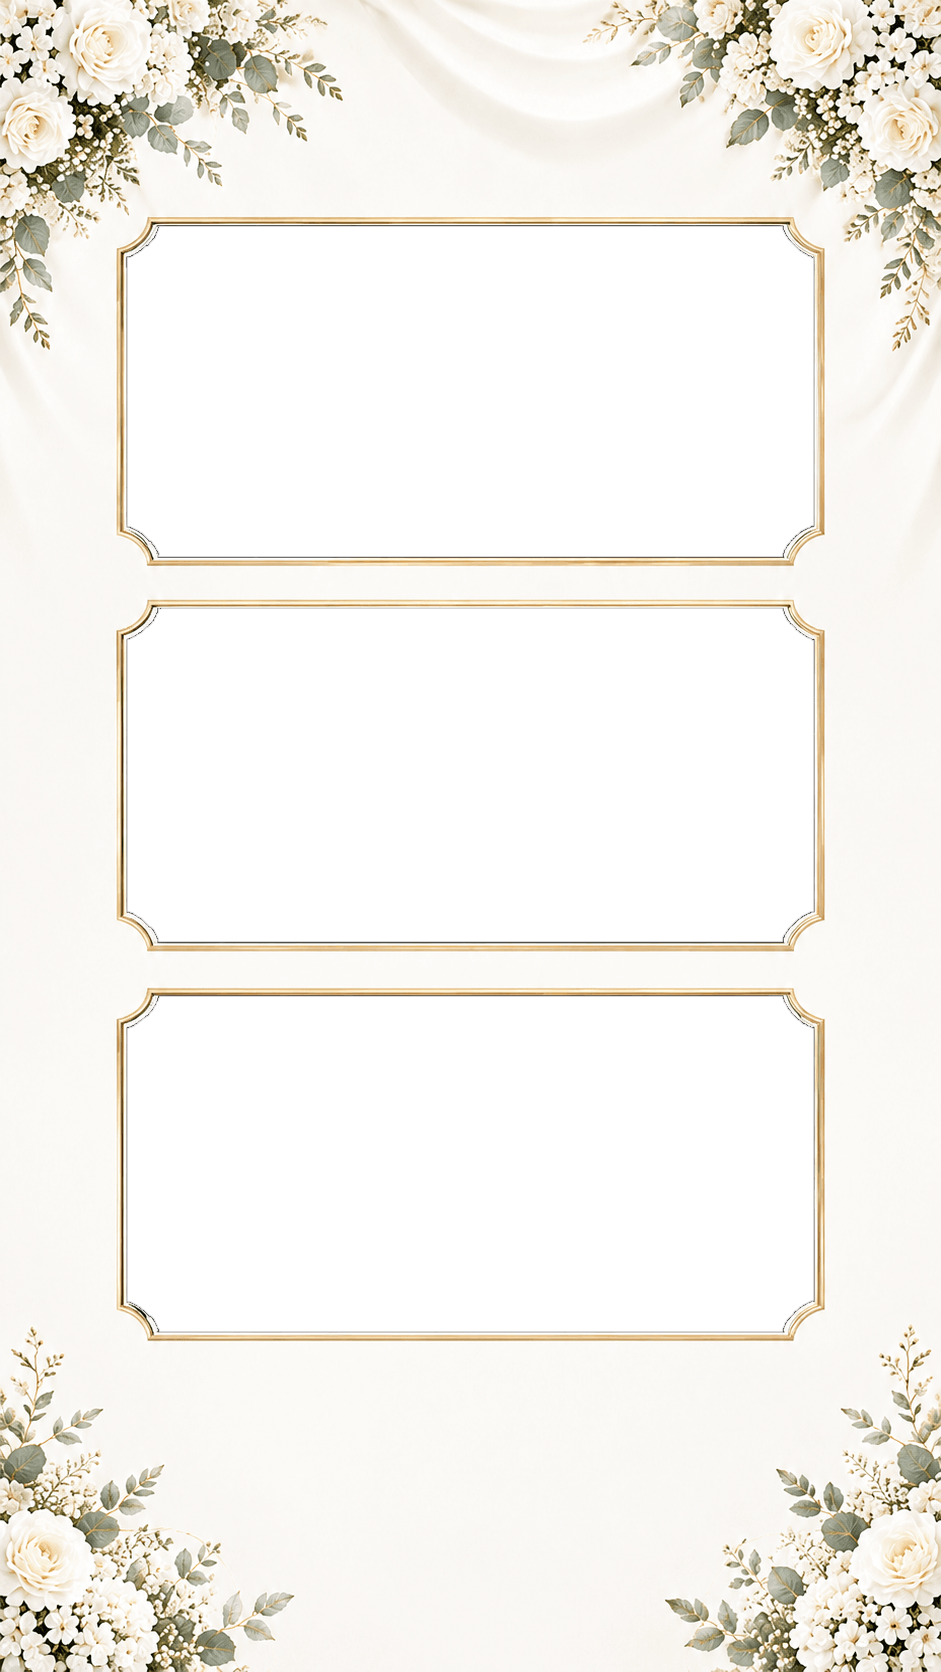
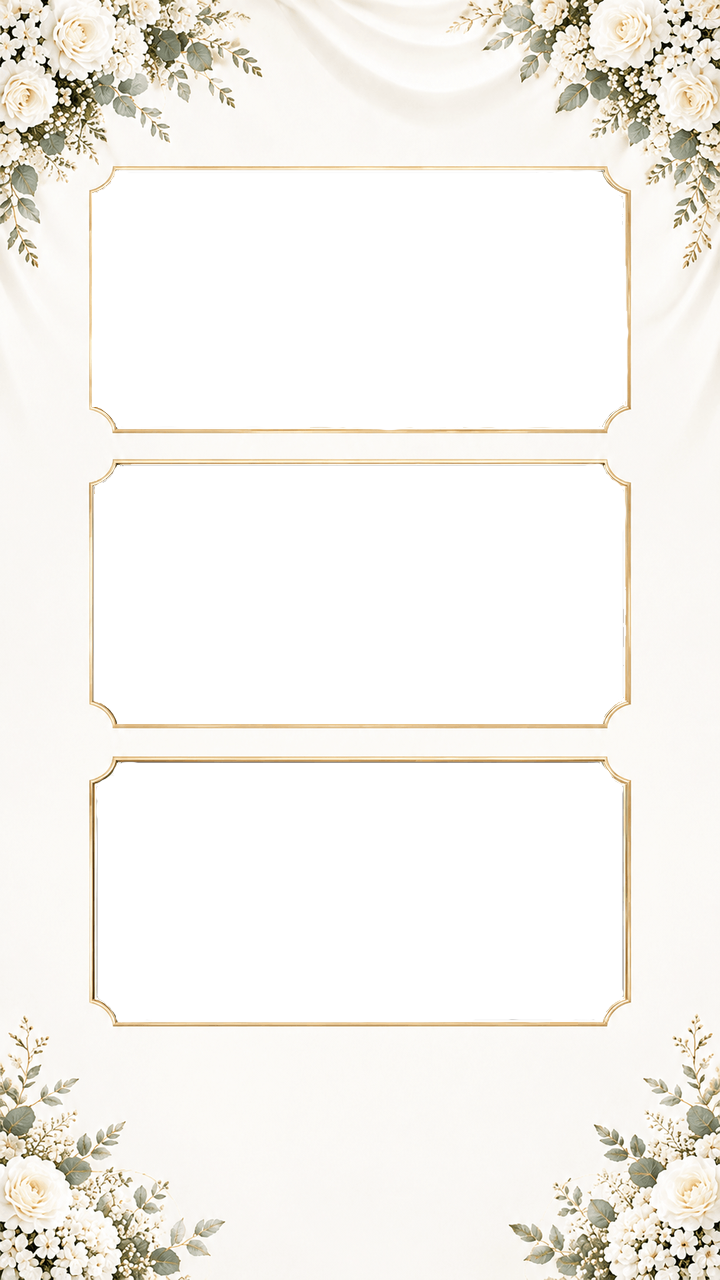
change frame
change frame

diff --git a/src/Pages/GuestPhotobooth.tsx b/src/Pages/GuestPhotobooth.tsx
@@ -216,7 +216,7 @@ export default function GuestPhotobooth() {
         video: {
           facingMode: { ideal: cameraFacing },
           width: { ideal: 1280 },
-          height: { ideal: 1600 },
+          height: { ideal: 720 },
         },
         audio: false,
       });
@@ -374,7 +374,7 @@ export default function GuestPhotobooth() {
         video: {
           facingMode: { exact: nextFacing },
           width: { ideal: 1280 },
-          height: { ideal: 1600 },
+          height: { ideal: 720  },
         },
         audio: false,
       });

diff --git a/src/Components/Component/PhotoboothSection.tsx b/src/Components/Component/PhotoboothSection.tsx
@@ -177,7 +177,7 @@ export default function PhotoboothSection({
                   autoPlay
                   playsInline
                   muted
-                  className={`absolute inset-0 z-0 h-full w-full object-cover ${cameraFacing === "user" ? "scale-x-[-1]" : ""}`}
+                  className={`absolute inset-0 z-0 h-full w-full object-contain ${cameraFacing === "user" ? "scale-x-[-1]" : ""}`}
                   style={{ filter: filterStyle }}
                 />
 
